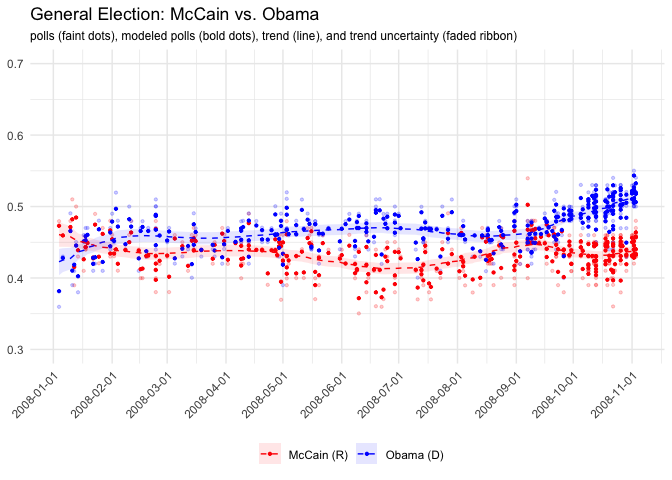
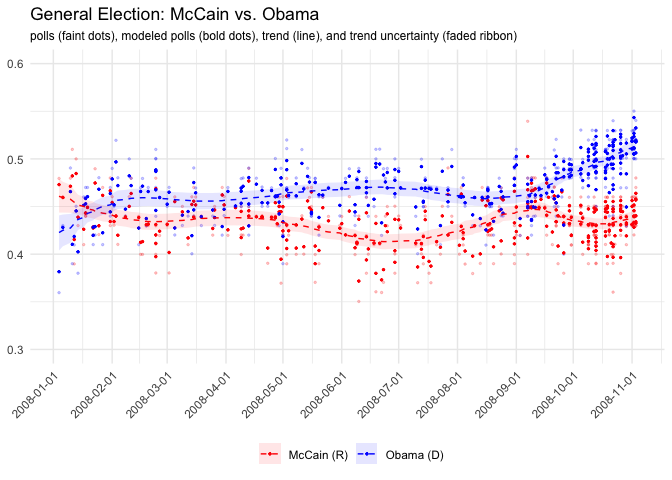
update

diff --git a/README.md b/README.md
@@ -52,8 +52,8 @@ fit_polls <- yapa(y = y, n = n, poll_dates = poll_dates)
 
 ``` r
 
-plot(fit_polls, size = 0.8) + 
-  ylim(0.3, 0.7) +
+plot(fit_polls, size = 0.5) + 
+  ylim(0.3, 0.6) +
   scale_x_date(date_breaks = '1 month') +
   scale_fill_manual(values = c('red', 'blue')) +
   scale_color_manual(values = c('red', 'blue')) +
@@ -104,11 +104,20 @@ plot(fit_gss) +
 
 # Model
 
-\[
-\begin{align}
-y_{p, o} &\sim Binomial(n_p, \theta_{p, o}) \\
-\theta_{p, o} &\sim Normal(\mu_{d(p), o}, \sigma^\theta) \\
-\mu_{d, o} &= \sum_{t < d} \delta_{t, o} + \alpha_o \\
-\delta_{d, o} &\sim Normal(\delta_{d-1, o}, \sigma^\delta)
-\end{align}
-\]
+  
+![
+\\begin{align\*}
+y\_{p, o} &\\sim Binomial(n\_p, \\theta\_{p, o}) \\\\
+\\theta\_{p, o} &\\sim Normal(\\mu\_{d(p), o}, \\sigma^\\theta) \\\\
+\\mu\_{d, o} &= \\sum\_{t \< d} \\delta\_{t, o} + \\alpha\_o \\\\
+\\delta\_{d, o} &\\sim Normal(\\delta\_{d-1, o}, \\sigma^\\delta)
+\\end{align\*}
+](https://latex.codecogs.com/png.latex?%0A%5Cbegin%7Balign%2A%7D%0Ay_%7Bp%2C%20o%7D%20%26%5Csim%20Binomial%28n_p%2C%20%5Ctheta_%7Bp%2C%20o%7D%29%20%5C%5C%0A%5Ctheta_%7Bp%2C%20o%7D%20%26%5Csim%20Normal%28%5Cmu_%7Bd%28p%29%2C%20o%7D%2C%20%5Csigma%5E%5Ctheta%29%20%5C%5C%0A%5Cmu_%7Bd%2C%20o%7D%20%26%3D%20%5Csum_%7Bt%20%3C%20d%7D%20%5Cdelta_%7Bt%2C%20o%7D%20%2B%20%5Calpha_o%20%5C%5C%0A%5Cdelta_%7Bd%2C%20o%7D%20%26%5Csim%20Normal%28%5Cdelta_%7Bd-1%2C%20o%7D%2C%20%5Csigma%5E%5Cdelta%29%0A%5Cend%7Balign%2A%7D%0A
+"
+\\begin{align*}
+y_{p, o} &\\sim Binomial(n_p, \\theta_{p, o}) \\\\
+\\theta_{p, o} &\\sim Normal(\\mu_{d(p), o}, \\sigma^\\theta) \\\\
+\\mu_{d, o} &= \\sum_{t \< d} \\delta_{t, o} + \\alpha_o \\\\
+\\delta_{d, o} &\\sim Normal(\\delta_{d-1, o}, \\sigma^\\delta)
+\\end{align*}
+")
